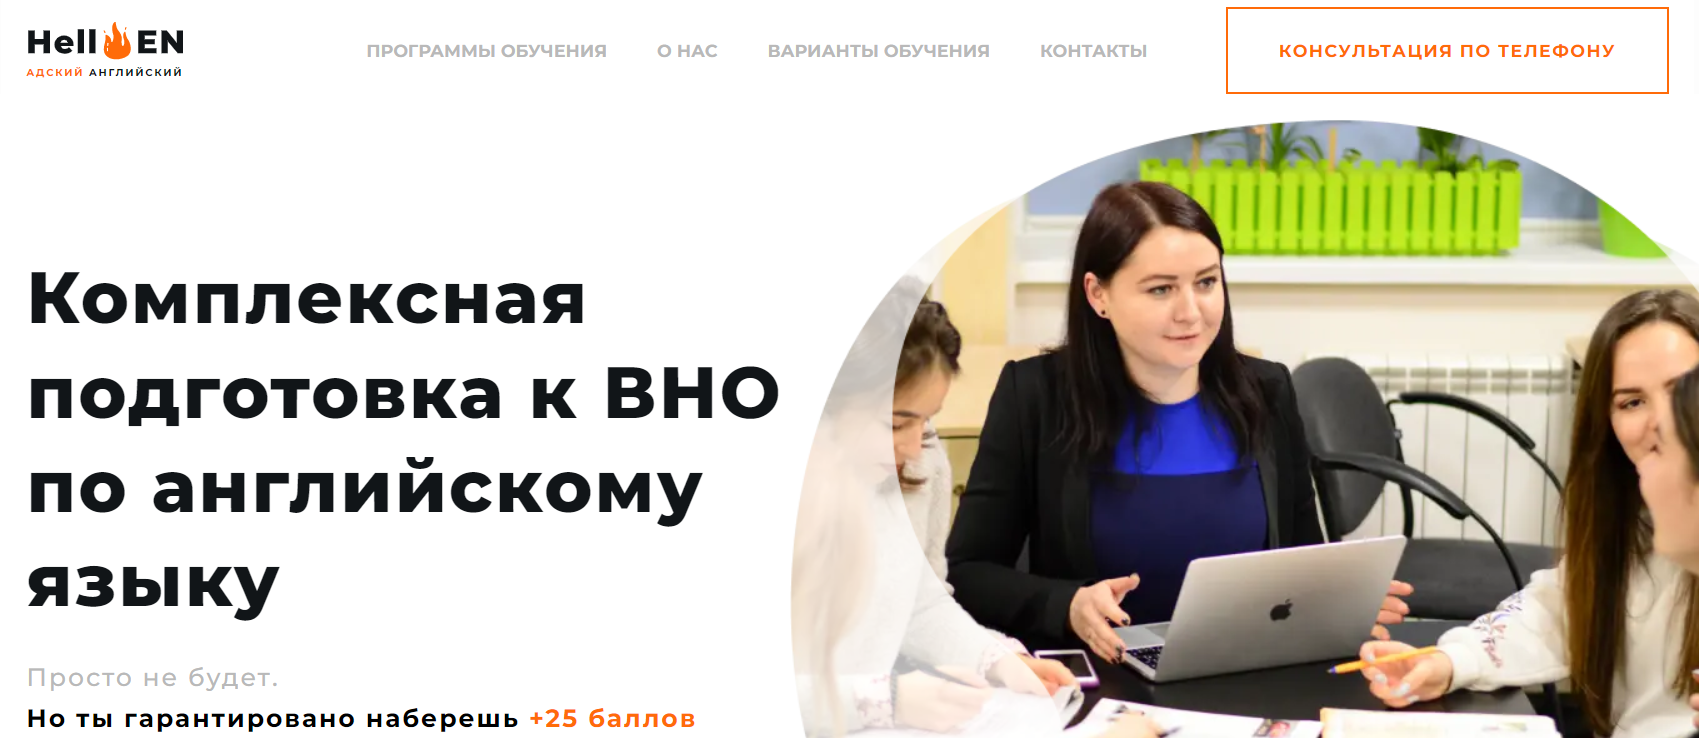
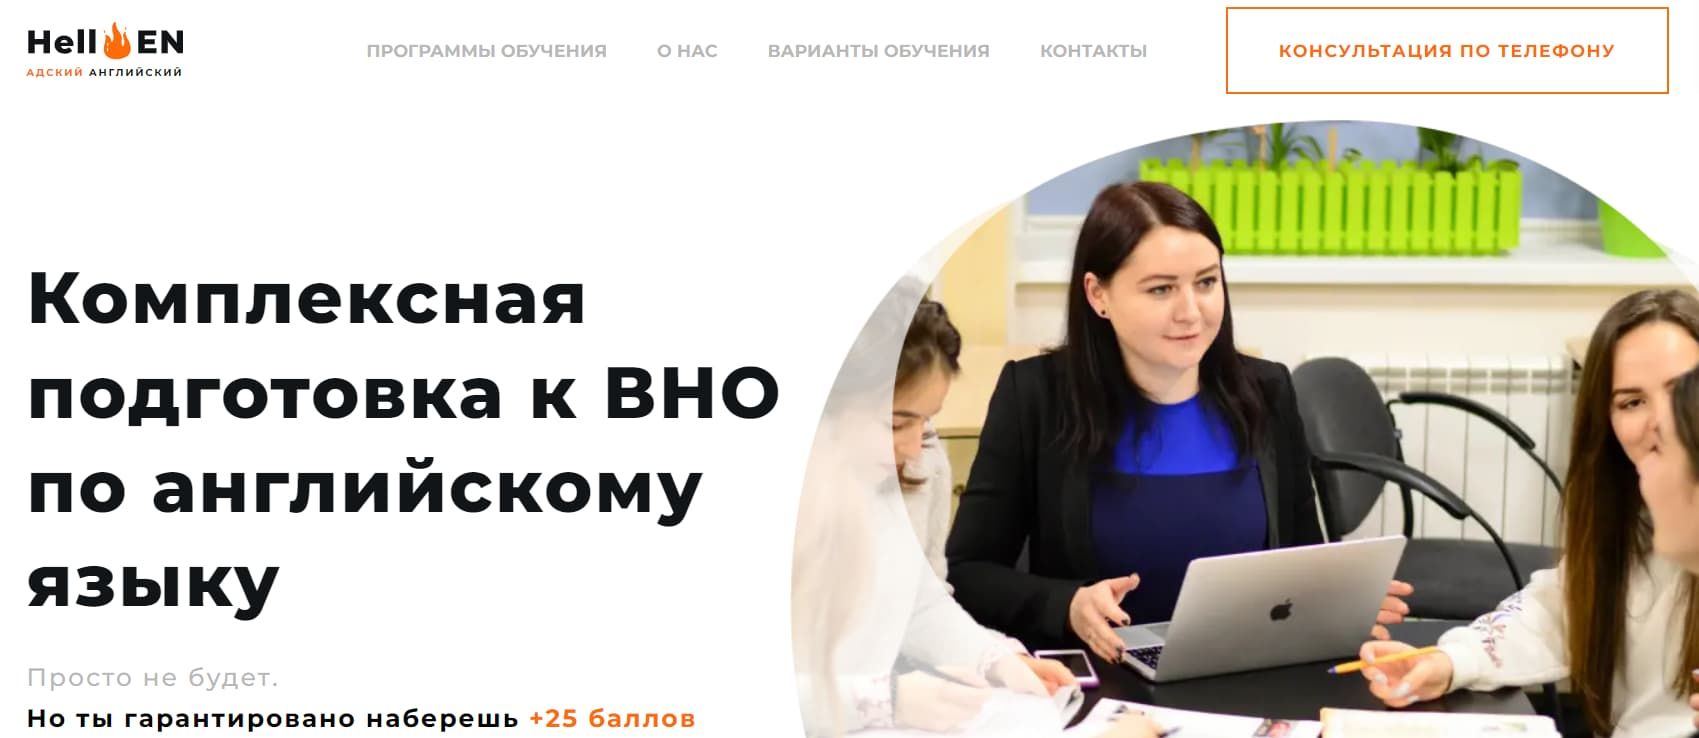
...

diff --git a/build/css/style.min.css b/build/css/style.min.css
@@ -1,1 +1,1 @@
-*{padding:0;margin:0;border:0}*,:after,:before{-webkit-box-sizing:border-box;box-sizing:border-box}aside,footer,header,nav,section{display:block}body{line-height:1;-ms-text-size-adjust:100%;-moz-text-size-adjust:100%;-webkit-text-size-adjust:100%}input::-ms-clear{display:none}button{cursor:pointer}button::-moz-focus-inner{padding:0;border:0}a,a:visited{text-decoration:none}a:hover{text-decoration:none}ul li{list-style:none}img{vertical-align:top}h1,h2,h3,h4,h5,h6{font-weight:inherit;font-size:inherit}.container{max-width:1240px;width:100%;margin:0 auto;padding:0 20px}html{scroll-behavior:smooth}body{font-family:"Comic Neue",cursive;color:#21243d}body.locked{overflow:hidden}svg path{stroke:inherit;stroke-width:inherit;fill:inherit}@-webkit-keyframes fade{0%{opacity:0}100%{opacity:1}}@keyframes fade{0%{opacity:0}100%{opacity:1}}nav{overflow:hidden}.navbar{display:-webkit-box;display:-ms-flexbox;display:flex;width:100%;-webkit-box-pack:justify;-ms-flex-pack:justify;justify-content:space-between;padding-top:30px;padding-bottom:30px}.menu{display:-webkit-box;display:-ms-flexbox;display:flex;margin-left:auto}.menu__item{margin-left:25px}.menu__item-link{color:#21243d;-webkit-transition:all .5s;-o-transition:all .5s;transition:all .5s}.menu__item-link:hover{color:#ff6464}.hero{padding-top:70px;padding-bottom:70px;display:-webkit-box;display:-ms-flexbox;display:flex}.hero__info{max-width:555px;display:-webkit-box;display:-ms-flexbox;display:flex;-webkit-box-orient:vertical;-webkit-box-direction:normal;-ms-flex-direction:column;flex-direction:column;gap:40px}.hero__title{font-style:normal;font-weight:700;font-size:44px;line-height:60px}.hero__text{font-style:normal;font-weight:400;font-size:20px;line-height:24px}.hero__btn_link{color:#fff;padding:9px 21px;width:210px;height:45px;display:-webkit-box;display:-ms-flexbox;display:flex;-webkit-box-pack:center;-ms-flex-pack:center;justify-content:center;-webkit-box-align:center;-ms-flex-align:center;align-items:center;background:#ff6464;border-radius:2px;-webkit-transition:all .5s;-o-transition:all .5s;transition:all .5s}.hero__btn_link:hover{background:#a04040;-webkit-transition:all .5s;-o-transition:all .5s;transition:all .5s}.hero__img{margin-left:30%}.color{background-color:#edf7fa}.experience{padding-top:30px;padding-bottom:30px}.experience__MainTitle{font-style:normal;font-weight:700;font-size:26px;line-height:38px;text-decoration:underline;margin-bottom:20px}.experience__works{display:-webkit-box;display:-ms-flexbox;display:flex;gap:30px;margin-bottom:20px}.experience__title{font-style:normal;font-weight:700;font-size:20px;line-height:30px;text-decoration:underline;margin-bottom:10px}.experience__subtitle{font-style:normal;font-weight:600;font-size:18px;line-height:26px}.experience__link{color:#ff6464;-webkit-transition:all .5s;-o-transition:all .5s;transition:all .5s}.experience__link:hover{color:#a04040;-webkit-transition:all .5s;-o-transition:all .5s;transition:all .5s}.experience__text{font-style:normal;font-weight:400;font-size:16px;line-height:24px}.experience__about{font-style:normal;font-weight:600;font-size:16px;line-height:24px}.works__experience{padding:10px;--webkit-box-shadow:0px 10px 13px -7px #000000,5px 5px 15px 5px rgba(0, 0, 0, 0);-webkit-box-shadow:0 10px 13px -7px #000,5px 5px 15px 5px transparent;box-shadow:0 10px 13px -7px #000,5px 5px 15px 5px transparent}.projects{padding-top:15px;padding-bottom:15px}.projects__title{font-style:normal;font-weight:400;font-size:22px;line-height:60px}.projects__list{display:-webkit-box;display:-ms-flexbox;display:flex;-ms-flex-wrap:wrap;flex-wrap:wrap;gap:40px;margin-bottom:20px}.projects__listItem{display:-webkit-box;display:-ms-flexbox;display:flex;-webkit-box-align:center;-ms-flex-align:center;align-items:center;gap:18px}.projects__img{height:180px;width:245px}.projects__name{font-style:normal;font-weight:700;font-size:30px;line-height:44px}.projects__link{color:#ff6464;-webkit-transition:all .5s;-o-transition:all .5s;transition:all .5s}.projects__link:hover{color:#a04040;-webkit-transition:all .5s;-o-transition:all .5s;transition:all .5s}.projects__text{font-style:normal;font-weight:400;font-size:16px;line-height:24px}.projects__btn{padding:9px 21px;width:210px;height:45px;display:-webkit-box;display:-ms-flexbox;display:flex;-webkit-box-pack:center;-ms-flex-pack:center;justify-content:center;-webkit-box-align:center;-ms-flex-align:center;align-items:center;background:#ff6464;border-radius:2px;color:#fff;margin:auto;-webkit-transition:all .5s;-o-transition:all .5s;transition:all .5s}.projects__btn:hover{background:#a04040;-webkit-transition:all .5s;-o-transition:all .5s;transition:all .5s}footer{background-color:#edf7fa}.footer{padding-top:80px;padding-bottom:50px}.footer__title{font-style:normal;font-weight:700;font-size:30px;line-height:44px;text-align:center;margin-bottom:30px}.footer__socials{display:-webkit-box;display:-ms-flexbox;display:flex;gap:25px;-webkit-box-pack:center;-ms-flex-pack:center;justify-content:center}.social__link svg{fill:#000;-webkit-transition:all .5s;-o-transition:all .5s;transition:all .5s}.social__link svg:hover{fill:#ff6464;-webkit-transition:all .5s;-o-transition:all .5s;transition:all .5s}@media (max-width:1449.98px){.container{max-width:950px}}@media (max-width:991.98px){.container{max-width:970px}}@media (max-width:767.98px){.container{max-width:740px}.experience__works{-ms-flex-wrap:wrap;flex-wrap:wrap}}@media (max-width:479.98px){.container{max-width:none}.hero{-webkit-box-pack:center;-ms-flex-pack:center;justify-content:center;-ms-flex-wrap:wrap-reverse;flex-wrap:wrap-reverse}.hero__info{-webkit-box-align:center;-ms-flex-align:center;align-items:center}.hero__img{margin:0}.projects__listItem{-ms-flex-wrap:wrap;flex-wrap:wrap}}
+*{padding:0;margin:0;border:0}*,:after,:before{-webkit-box-sizing:border-box;box-sizing:border-box}aside,footer,header,nav,section{display:block}body{line-height:1;-ms-text-size-adjust:100%;-moz-text-size-adjust:100%;-webkit-text-size-adjust:100%}input::-ms-clear{display:none}button{cursor:pointer}button::-moz-focus-inner{padding:0;border:0}a,a:visited{text-decoration:none}a:hover{text-decoration:none}ul li{list-style:none}img{vertical-align:top}h1,h2,h3,h4,h5,h6{font-weight:inherit;font-size:inherit}.container{max-width:1240px;width:100%;margin:0 auto;padding:0 20px}html{scroll-behavior:smooth}body{font-family:"Comic Neue",cursive;color:#21243d}body.locked{overflow:hidden}svg path{stroke:inherit;stroke-width:inherit;fill:inherit}@-webkit-keyframes fade{0%{opacity:0}100%{opacity:1}}@keyframes fade{0%{opacity:0}100%{opacity:1}}nav{overflow:hidden}.navbar{display:-webkit-box;display:-ms-flexbox;display:flex;width:100%;-webkit-box-pack:justify;-ms-flex-pack:justify;justify-content:space-between;padding-top:30px;padding-bottom:30px}.menu{display:-webkit-box;display:-ms-flexbox;display:flex;margin-left:auto}.menu__item{margin-left:25px}.menu__item-link{color:#21243d;-webkit-transition:all .5s;-o-transition:all .5s;transition:all .5s}.menu__item-link:hover{color:#ff6464}.hero{padding-top:70px;padding-bottom:70px;display:-webkit-box;display:-ms-flexbox;display:flex}.hero__info{max-width:555px;display:-webkit-box;display:-ms-flexbox;display:flex;-webkit-box-orient:vertical;-webkit-box-direction:normal;-ms-flex-direction:column;flex-direction:column;gap:40px}.hero__title{font-style:normal;font-weight:700;font-size:44px;line-height:60px}.hero__text{font-style:normal;font-weight:400;font-size:20px;line-height:24px}.hero__btn_link{color:#fff;padding:9px 21px;width:210px;height:45px;display:-webkit-box;display:-ms-flexbox;display:flex;-webkit-box-pack:center;-ms-flex-pack:center;justify-content:center;-webkit-box-align:center;-ms-flex-align:center;align-items:center;background:#ff6464;border-radius:2px;-webkit-transition:all .5s;-o-transition:all .5s;transition:all .5s}.hero__btn_link:hover{background:#a04040;-webkit-transition:all .5s;-o-transition:all .5s;transition:all .5s}.hero__img{margin-left:25%}.color{background-color:#edf7fa}.experience{padding-top:30px;padding-bottom:30px}.experience__MainTitle{font-style:normal;font-weight:700;font-size:26px;line-height:38px;text-decoration:underline;margin-bottom:20px}.experience__works{display:-webkit-box;display:-ms-flexbox;display:flex;gap:30px;margin-bottom:20px}.experience__title{font-style:normal;font-weight:700;font-size:20px;line-height:30px;text-decoration:underline;margin-bottom:10px}.experience__subtitle{font-style:normal;font-weight:600;font-size:18px;line-height:26px}.experience__link{color:#ff6464;-webkit-transition:all .5s;-o-transition:all .5s;transition:all .5s}.experience__link:hover{color:#a04040;-webkit-transition:all .5s;-o-transition:all .5s;transition:all .5s}.experience__text{font-style:normal;font-weight:400;font-size:16px;line-height:24px}.experience__about{font-style:normal;font-weight:600;font-size:16px;line-height:24px}.works__experience{padding:10px;--webkit-box-shadow:0px 10px 13px -7px #000000,5px 5px 15px 5px rgba(0, 0, 0, 0);-webkit-box-shadow:0 10px 13px -7px #000,5px 5px 15px 5px transparent;box-shadow:0 10px 13px -7px #000,5px 5px 15px 5px transparent}.projects{padding-top:15px;padding-bottom:15px}.projects__title{font-style:normal;font-weight:400;font-size:22px;line-height:60px}.projects__list{display:-webkit-box;display:-ms-flexbox;display:flex;-ms-flex-wrap:wrap;flex-wrap:wrap;gap:40px;margin-bottom:20px}.projects__listItem{display:-webkit-box;display:-ms-flexbox;display:flex;-webkit-box-align:center;-ms-flex-align:center;align-items:center;gap:18px}.projects__img{height:180px;width:245px}.projects__name{font-style:normal;font-weight:700;font-size:30px;line-height:44px}.projects__link{color:#ff6464;-webkit-transition:all .5s;-o-transition:all .5s;transition:all .5s}.projects__link:hover{color:#a04040;-webkit-transition:all .5s;-o-transition:all .5s;transition:all .5s}.projects__text{font-style:normal;font-weight:400;font-size:16px;line-height:24px}.projects__btn{padding:9px 21px;width:210px;height:45px;display:-webkit-box;display:-ms-flexbox;display:flex;-webkit-box-pack:center;-ms-flex-pack:center;justify-content:center;-webkit-box-align:center;-ms-flex-align:center;align-items:center;background:#ff6464;border-radius:2px;color:#fff;margin:auto;-webkit-transition:all .5s;-o-transition:all .5s;transition:all .5s}.projects__btn:hover{background:#a04040;-webkit-transition:all .5s;-o-transition:all .5s;transition:all .5s}footer{background-color:#edf7fa}.footer{padding-top:80px;padding-bottom:50px}.footer__title{font-style:normal;font-weight:700;font-size:30px;line-height:44px;text-align:center;margin-bottom:30px}.footer__socials{display:-webkit-box;display:-ms-flexbox;display:flex;gap:25px;-webkit-box-pack:center;-ms-flex-pack:center;justify-content:center}.social__link svg{fill:#000;-webkit-transition:all .5s;-o-transition:all .5s;transition:all .5s}.social__link svg:hover{fill:#ff6464;-webkit-transition:all .5s;-o-transition:all .5s;transition:all .5s}#myBtn{display:none;position:fixed;bottom:20px;right:30px;z-index:99;font-size:18px;border:none;outline:0;background-color:#ff6464;color:#fff;cursor:pointer;padding:15px;border-radius:50%;-webkit-transition:all .5s;-o-transition:all .5s;transition:all .5s;opacity:.5}#myBtn:hover{background-color:#a04040;-webkit-transition:all .5s;-o-transition:all .5s;transition:all .5s}@media (max-width:1449.98px){.container{max-width:950px}}@media (max-width:991.98px){.container{max-width:970px}}@media (max-width:767.98px){.container{max-width:740px}.experience__works{-ms-flex-wrap:wrap;flex-wrap:wrap}}@media (max-width:479.98px){.container{max-width:none}.hero{-webkit-box-pack:center;-ms-flex-pack:center;justify-content:center;-ms-flex-wrap:wrap-reverse;flex-wrap:wrap-reverse}.hero__info{-webkit-box-align:center;-ms-flex-align:center;align-items:center}.hero__img{margin:0}.projects__listItem{-ms-flex-wrap:wrap;flex-wrap:wrap}#myBtn{bottom:10px;right:15px}}

diff --git a/build/css/style.css b/build/css/style.css
@@ -213,7 +213,7 @@ nav {
 }
 
 .hero__img {
-  margin-left: 30%;
+  margin-left: 25%;
 }
 
 .color {
@@ -429,6 +429,33 @@ footer {
   transition: all 0.5s;
 }
 
+#myBtn {
+  display: none;
+  position: fixed;
+  bottom: 20px;
+  right: 30px;
+  z-index: 99;
+  font-size: 18px;
+  border: none;
+  outline: none;
+  background-color: #ff6464;
+  color: white;
+  cursor: pointer;
+  padding: 15px;
+  border-radius: 50%;
+  -webkit-transition: all 0.5s;
+  -o-transition: all 0.5s;
+  transition: all 0.5s;
+  opacity: 0.5;
+}
+
+#myBtn:hover {
+  background-color: #a04040;
+  -webkit-transition: all 0.5s;
+  -o-transition: all 0.5s;
+  transition: all 0.5s;
+}
+
 @media (max-width: 1449.98px) {
   .container {
     max-width: 950px;
@@ -478,5 +505,10 @@ footer {
   .projects__listItem {
     -ms-flex-wrap: wrap;
         flex-wrap: wrap;
+  }
+
+  #myBtn {
+    bottom: 10px;
+    right: 15px;
   }
 }

diff --git a/build/js/scripts.js b/build/js/scripts.js
@@ -1,3 +1,23 @@
 // Custom Scripts
 // Custom scripts
+window.onscroll = function () {
+  scrollFunction();
+};
+
+function scrollFunction() {
+  if (
+    document.body.scrollTop > 700 ||
+    document.documentElement.scrollTop > 700
+  ) {
+    document.getElementById("myBtn").style.display = "block";
+  } else {
+    document.getElementById("myBtn").style.display = "none";
+  }
+}
+
+// When the user clicks on the button, scroll to the top of the document
+function topFunction() {
+  document.body.scrollTop = 0;
+  document.documentElement.scrollTop = 0;
+}
 

diff --git a/src/js/main.js b/src/js/main.js
@@ -1,1 +1,21 @@
 // Custom scripts
+window.onscroll = function () {
+  scrollFunction();
+};
+
+function scrollFunction() {
+  if (
+    document.body.scrollTop > 700 ||
+    document.documentElement.scrollTop > 700
+  ) {
+    document.getElementById("myBtn").style.display = "block";
+  } else {
+    document.getElementById("myBtn").style.display = "none";
+  }
+}
+
+// When the user clicks on the button, scroll to the top of the document
+function topFunction() {
+  document.body.scrollTop = 0;
+  document.documentElement.scrollTop = 0;
+}

diff --git a/src/scss/_btnToTop.scss b/src/scss/_btnToTop.scss
@@ -1,0 +1,26 @@
+#myBtn {
+	display: none;
+	position: fixed;
+	bottom: 20px;
+	right: 30px;
+	z-index: 99;
+	font-size: 18px;
+	border: none;
+	outline: none;
+	background-color: $accentColor;
+	color: white;
+	cursor: pointer;
+	padding: 15px;
+	border-radius: 50%;
+	transition: all 0.5s;
+	opacity: 0.5;
+	@media (max-width: $breakpoint480) {
+		bottom: 10px;
+		right: 15px;
+	}
+}
+
+#myBtn:hover {
+	background-color: $accentColorHover;
+	transition: all 0.5s;
+}

diff --git a/build/js/scripts.min.js b/build/js/scripts.min.js
@@ -1,0 +1,1 @@
+function scrollFunction(){document.body.scrollTop>700||document.documentElement.scrollTop>700?document.getElementById("myBtn").style.display="block":document.getElementById("myBtn").style.display="none"}function topFunction(){document.body.scrollTop=0,document.documentElement.scrollTop=0}window.onscroll=function(){scrollFunction()};

diff --git a/build/index.html b/build/index.html
@@ -216,6 +216,9 @@
     </div>
 </footer>
 
+    <!-- btn to top -->
+    <button onclick="topFunction()" id="myBtn" title="Go to top">Top</button>
+
 </body>
 
 <script src="./js/scripts.min.js"></script>

diff --git a/src/index.html b/src/index.html
@@ -31,6 +31,9 @@
     <!-- Footer -->
     @@include('./html/_footer.html')
 
+    <!-- btn to top -->
+    @@include('./html/_btnToTop.html')
+
 </body>
 
 <script src="./js/scripts.min.js"></script>

diff --git a/src/scss/style.scss b/src/scss/style.scss
@@ -9,6 +9,7 @@
 @import "./works";
 @import "./projects";
 @import "./footer";
+@import "./btnToTop";
 
 // Libs
 // @import './libs/swiper';

diff --git a/src/scss/_hero.scss b/src/scss/_hero.scss
@@ -50,7 +50,7 @@
 	}
 
 	&__img {
-		margin-left: 30%;
+		margin-left: 25%;
 		@media (max-width: $breakpoint480) {
 			margin: 0;
 		}

diff --git a/src/html/_btnToTop.html b/src/html/_btnToTop.html
@@ -1,0 +1,1 @@
+<button onclick="topFunction()" id="myBtn" title="Go to top">Top</button>
